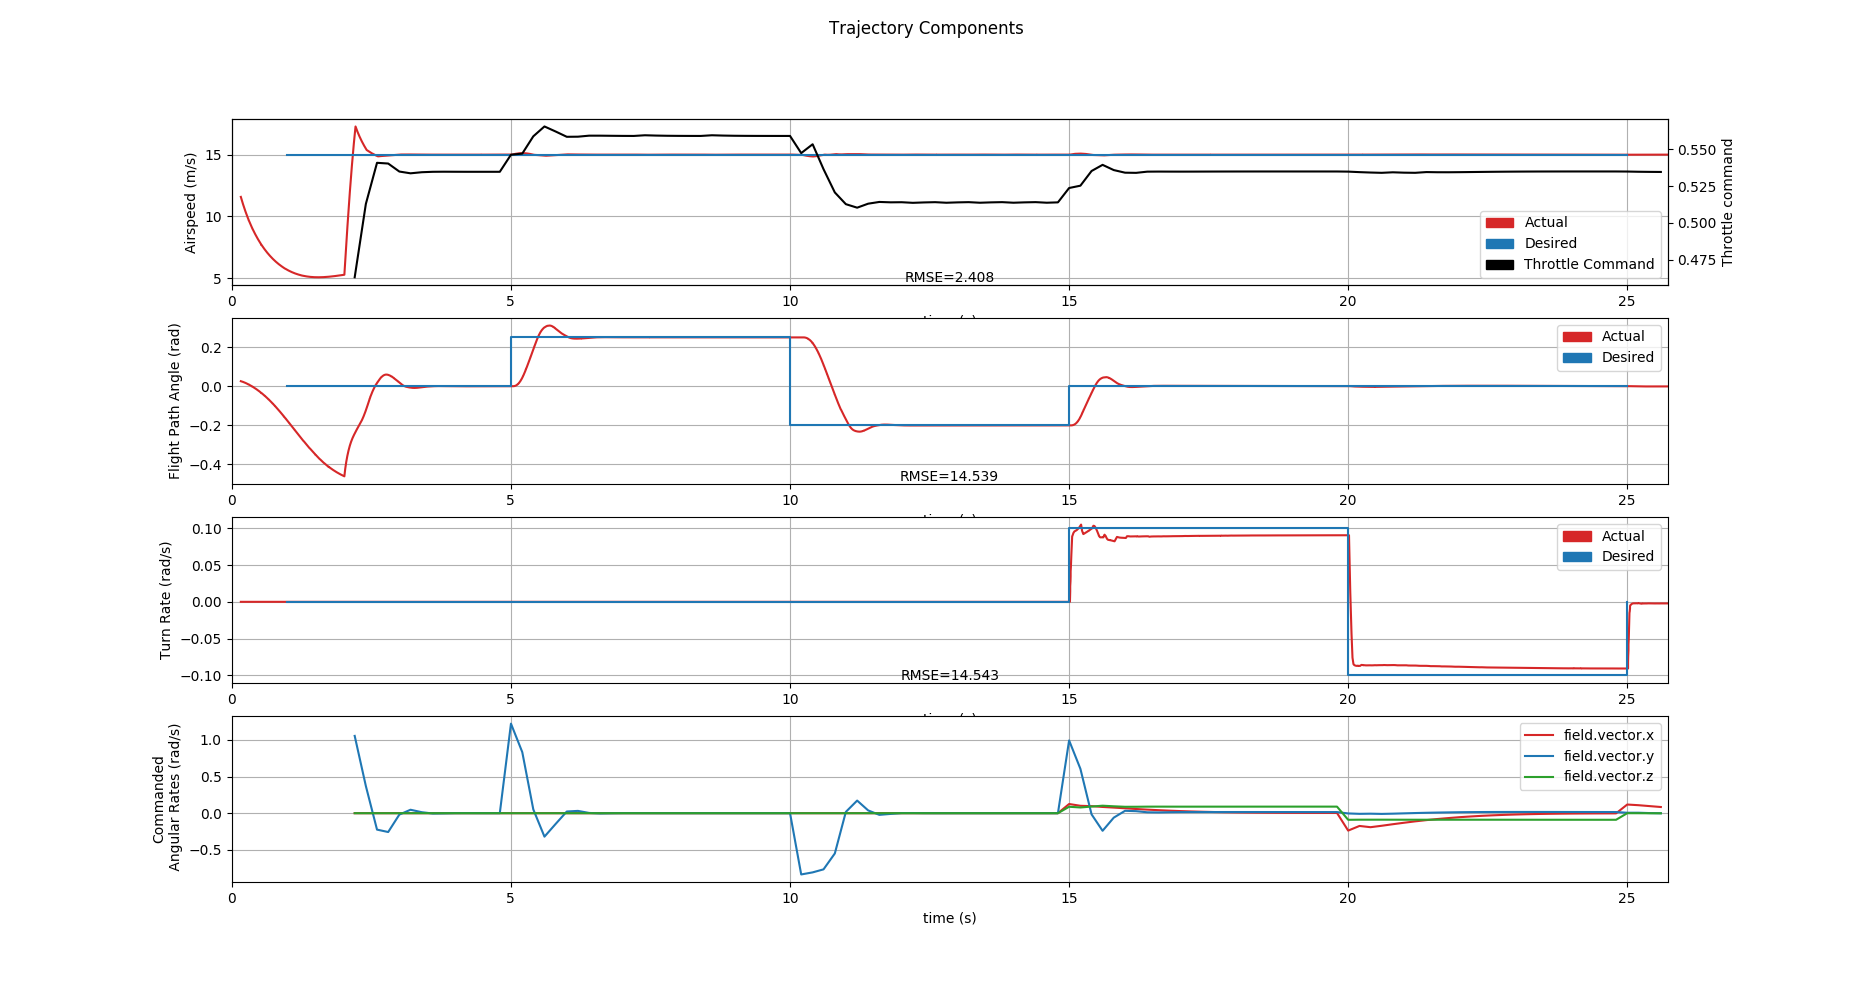
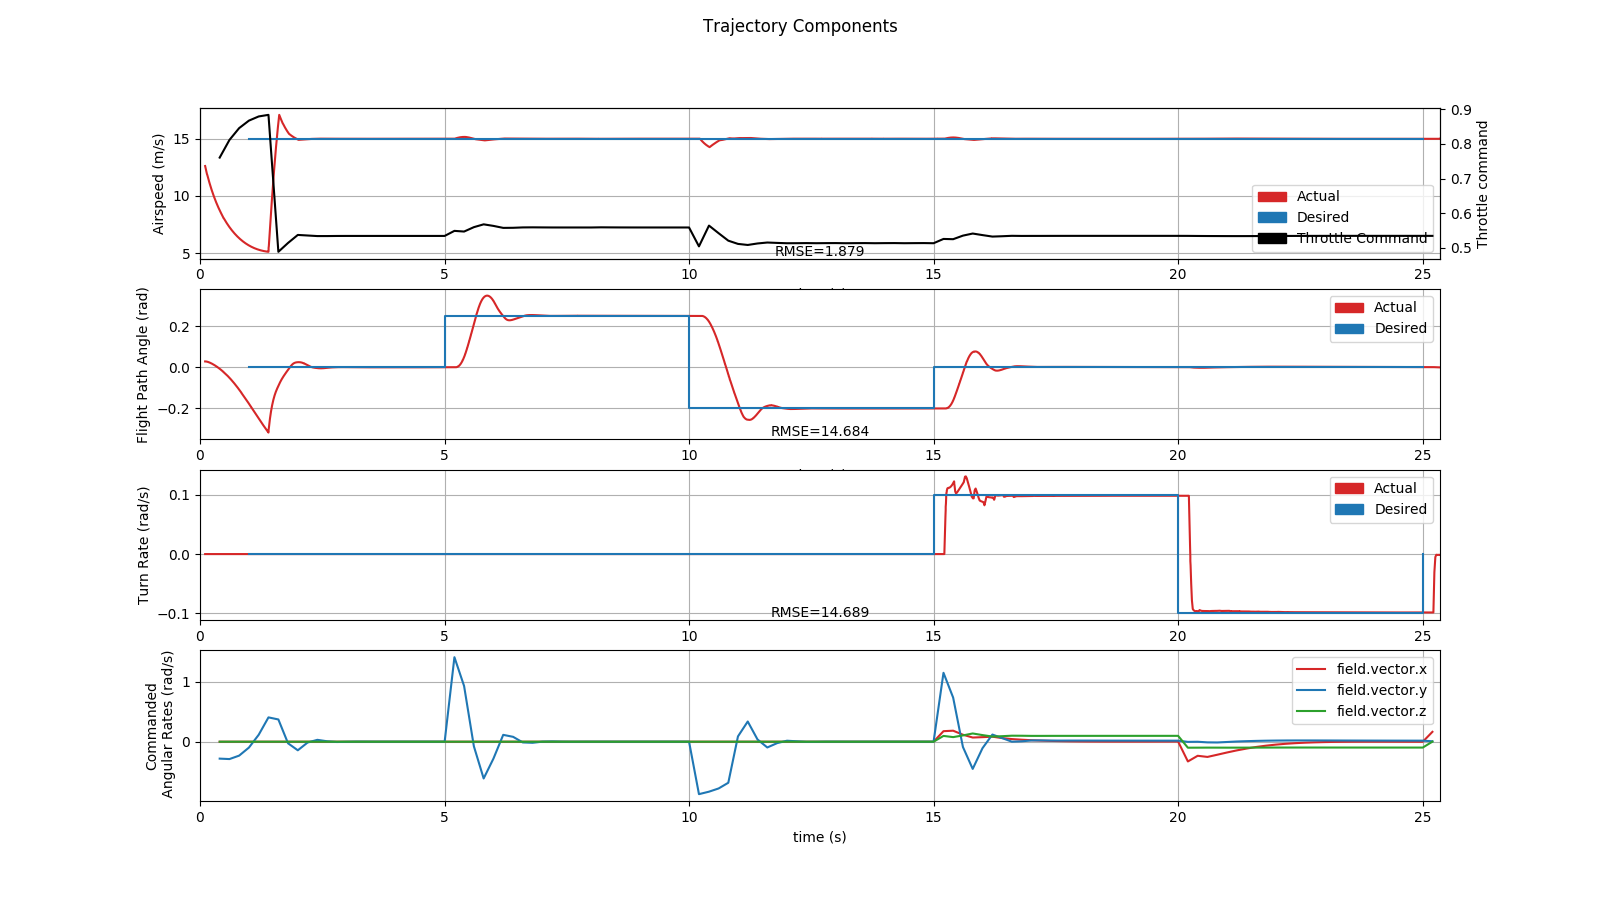
Tuned trajectory controller

diff --git a/mpc_models/trajectory_controller/trajectory_controller_solver.cpp b/mpc_models/trajectory_controller/trajectory_controller_solver.cpp
@@ -126,12 +126,12 @@ int main()
   DMatrix Q(h.getDim(), h.getDim());
   Q.setIdentity();
   Q(0, 0) = 10; // Va
-  Q(1, 1) = 100; // Flight path angle
-  Q(2, 2) = 100; // turn rate
+  Q(1, 1) = 1000; // Flight path angle
+  Q(2, 2) = 1000; // turn rate
   Q(3, 3) = 0.01;  // alpha
   Q(4, 4) = 10;  // beta
-  Q(5, 5) = 1;   // p
-  Q(6, 6) = 1;   // q
+  Q(5, 5) = 0.5;   // p
+  Q(6, 6) = 5;   // q
   Q(7, 7) = 10;   // r
   Q(8, 8) = 1;   // throttle
 
@@ -159,7 +159,7 @@ int main()
 
   // State constraints
   ocp.subjectTo(-5.0*M_PI/180.0 <= alpha <= 15.0*M_PI/180.0); // Stall protection
-  ocp.subjectTo(-15.0*M_PI/180.0 <= beta <= 15.0*M_PI/180.0); // Constraining beta to help with solution feasibility 
+  ocp.subjectTo(-10.0*M_PI/180.0 <= beta <= 10.0*M_PI/180.0); // Constraining beta to help with solution feasibility 
   ocp.subjectTo(-60.0*M_PI/180.0 <= phi <= 60.0*M_PI/180.0); // Constraining phi to help with solution feasibility
   ocp.subjectTo(-30.0*M_PI/180.0 <= theta <= 45.0*M_PI/180.0); // Constraining theta to help with solution feasibility
 
